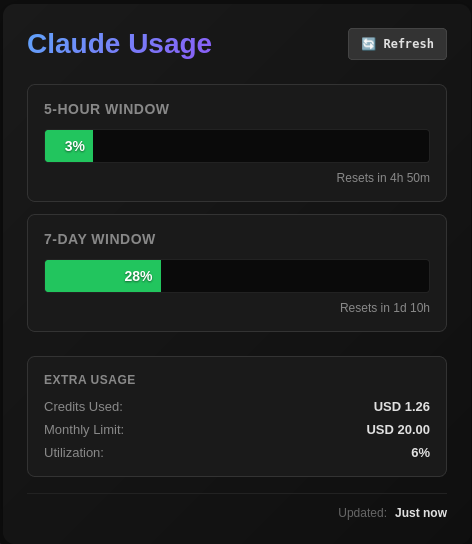
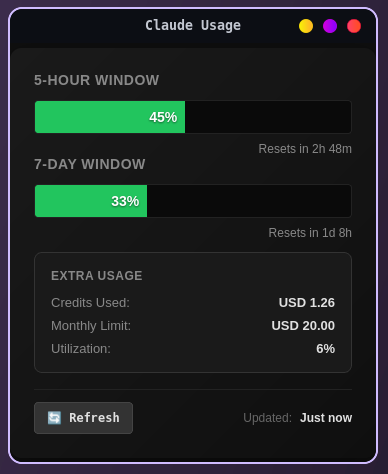
feat: remove title header, move refresh to footer, fix white background
- Drop the redundant "Claude Usage" h1 (window title already shows it)
- Move refresh button to footer left, alongside the Updated timestamp
- Fix white webview background by setting dark color on <html> in app.html
- Update README with installation instructions including Arch PKGBUILD
- Update screenshot
- Gitignore makepkg build artifacts under pkg/

diff --git a/src/routes/+page.svelte b/src/routes/+page.svelte
@@ -69,18 +69,6 @@
 
 <main>
   <div class="container">
-    <header>
-      <h1>Claude Usage</h1>
-      <button on:click={handleRefresh} disabled={isRefreshing} class="refresh-btn">
-        {#if isRefreshing}
-          <span class="spinner" />
-          Refreshing...
-        {:else}
-          🔄 Refresh
-        {/if}
-      </button>
-    </header>
-
     {#if authError}
       <div class="error-box">
         <p>
@@ -122,6 +110,14 @@
       </div>
 
       <footer>
+        <button on:click={handleRefresh} disabled={isRefreshing} class="refresh-btn">
+          {#if isRefreshing}
+            <span class="spinner"></span>
+            Refreshing...
+          {:else}
+            🔄 Refresh
+          {/if}
+        </button>
         <div class="status">
           <span class="label">Updated:</span>
           <span class="value">{formatLastUpdated(lastUpdated)}</span>
@@ -165,24 +161,6 @@
     background: linear-gradient(135deg, #1a1a1a 0%, #0f0f0f 100%);
     border-radius: 12px;
     box-shadow: 0 8px 32px rgba(0, 0, 0, 0.5);
-  }
-
-  header {
-    display: flex;
-    align-items: center;
-    justify-content: space-between;
-    margin-bottom: 24px;
-    gap: 12px;
-  }
-
-  h1 {
-    margin: 0;
-    font-size: 28px;
-    font-weight: 700;
-    background: linear-gradient(135deg, #60a5fa, #8b5cf6);
-    -webkit-background-clip: text;
-    -webkit-text-fill-color: transparent;
-    background-clip: text;
   }
 
   .refresh-btn {
@@ -309,12 +287,13 @@
     padding-top: 12px;
     border-top: 1px solid #222;
     font-size: 12px;
-    text-align: right;
+    display: flex;
+    align-items: center;
+    justify-content: space-between;
   }
 
   .status {
     display: flex;
-    justify-content: flex-end;
     align-items: center;
     gap: 8px;
     color: #888;

diff --git a/src/app.html b/src/app.html
@@ -1,5 +1,5 @@
 <!doctype html>
-<html lang="en">
+<html lang="en" style="background:#0f0f0f">
   <head>
     <meta charset="utf-8" />
     <link rel="icon" href="%sveltekit.assets%/favicon.png" />

diff --git a/README.md b/README.md
@@ -1,4 +1,4 @@
-<a href="https://aimeos.org/">
+<a href="https://claude.ai">
     <img src="https://raw.githubusercontent.com/lobehub/lobe-icons/refs/heads/master/packages/static-png/dark/claude.png" alt="Claude logo" title="Claude" align="right" height="60" />
 </a>
 
